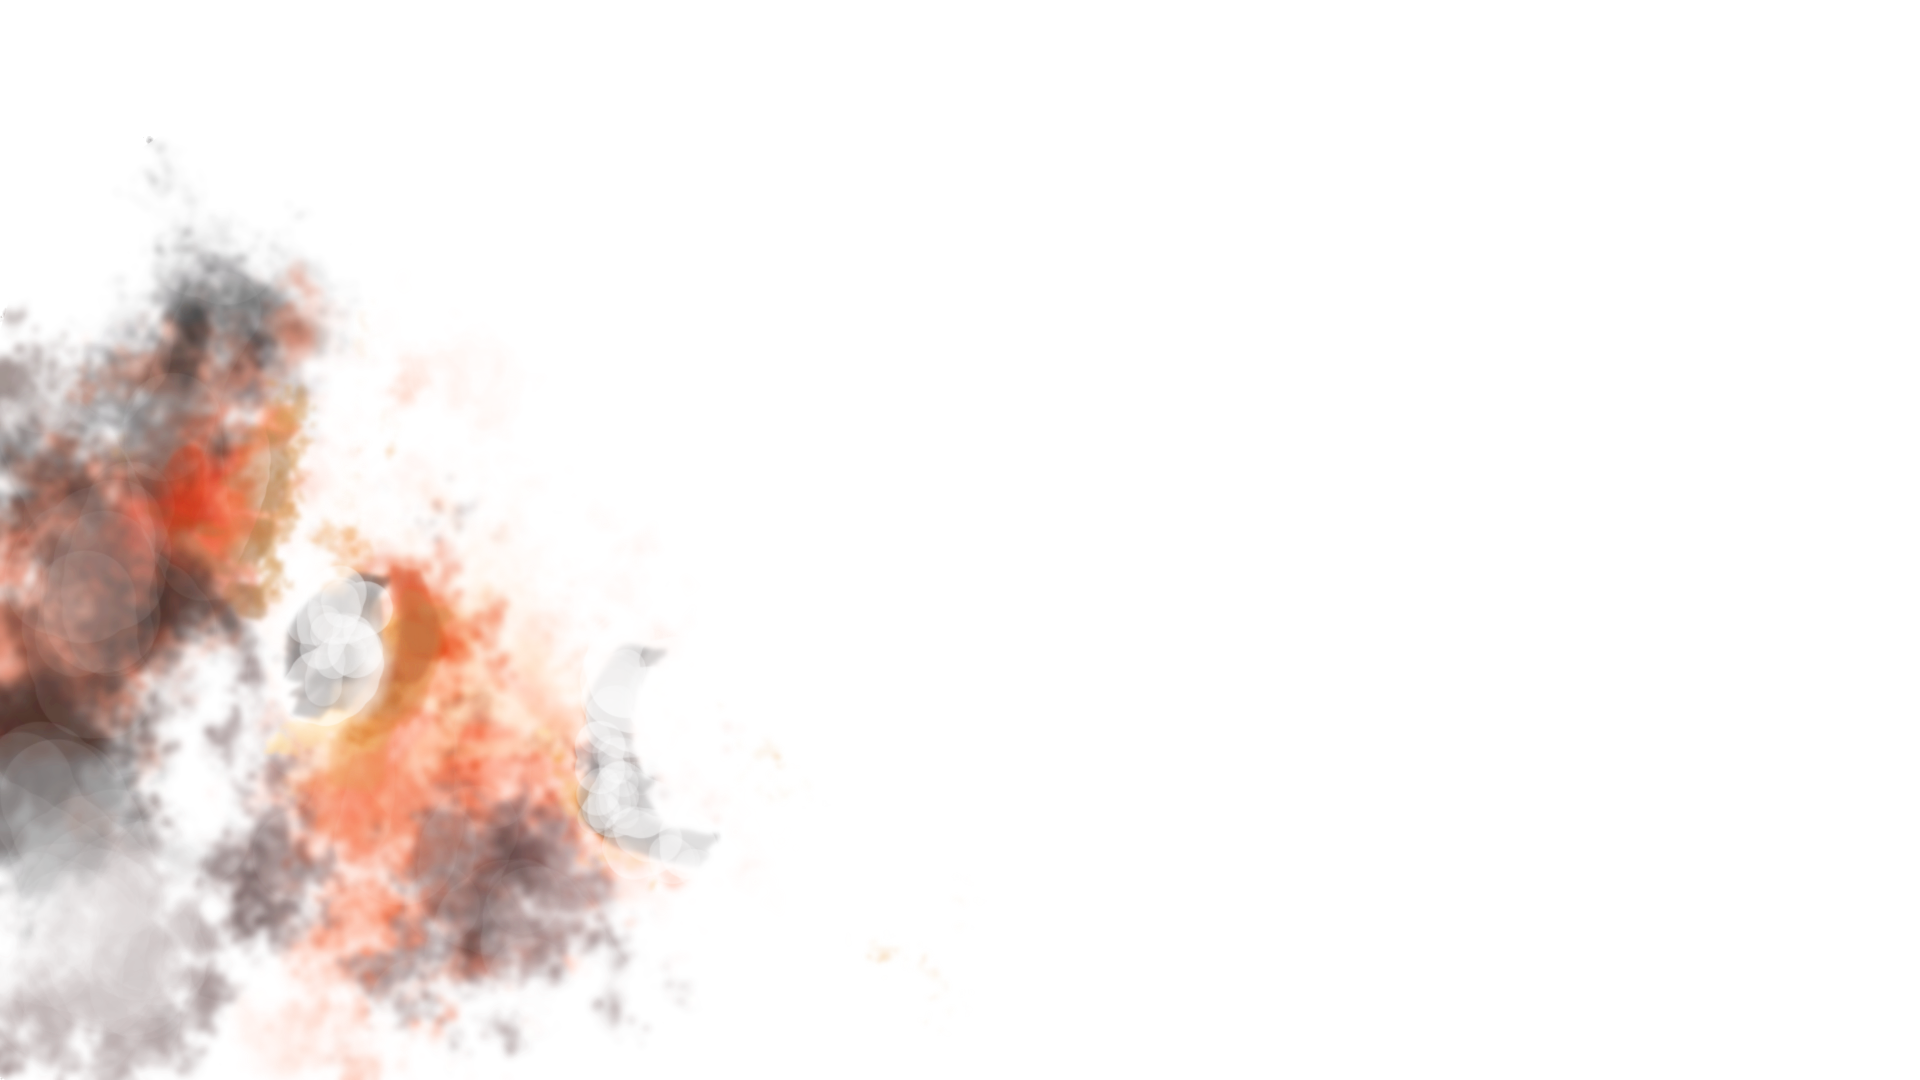
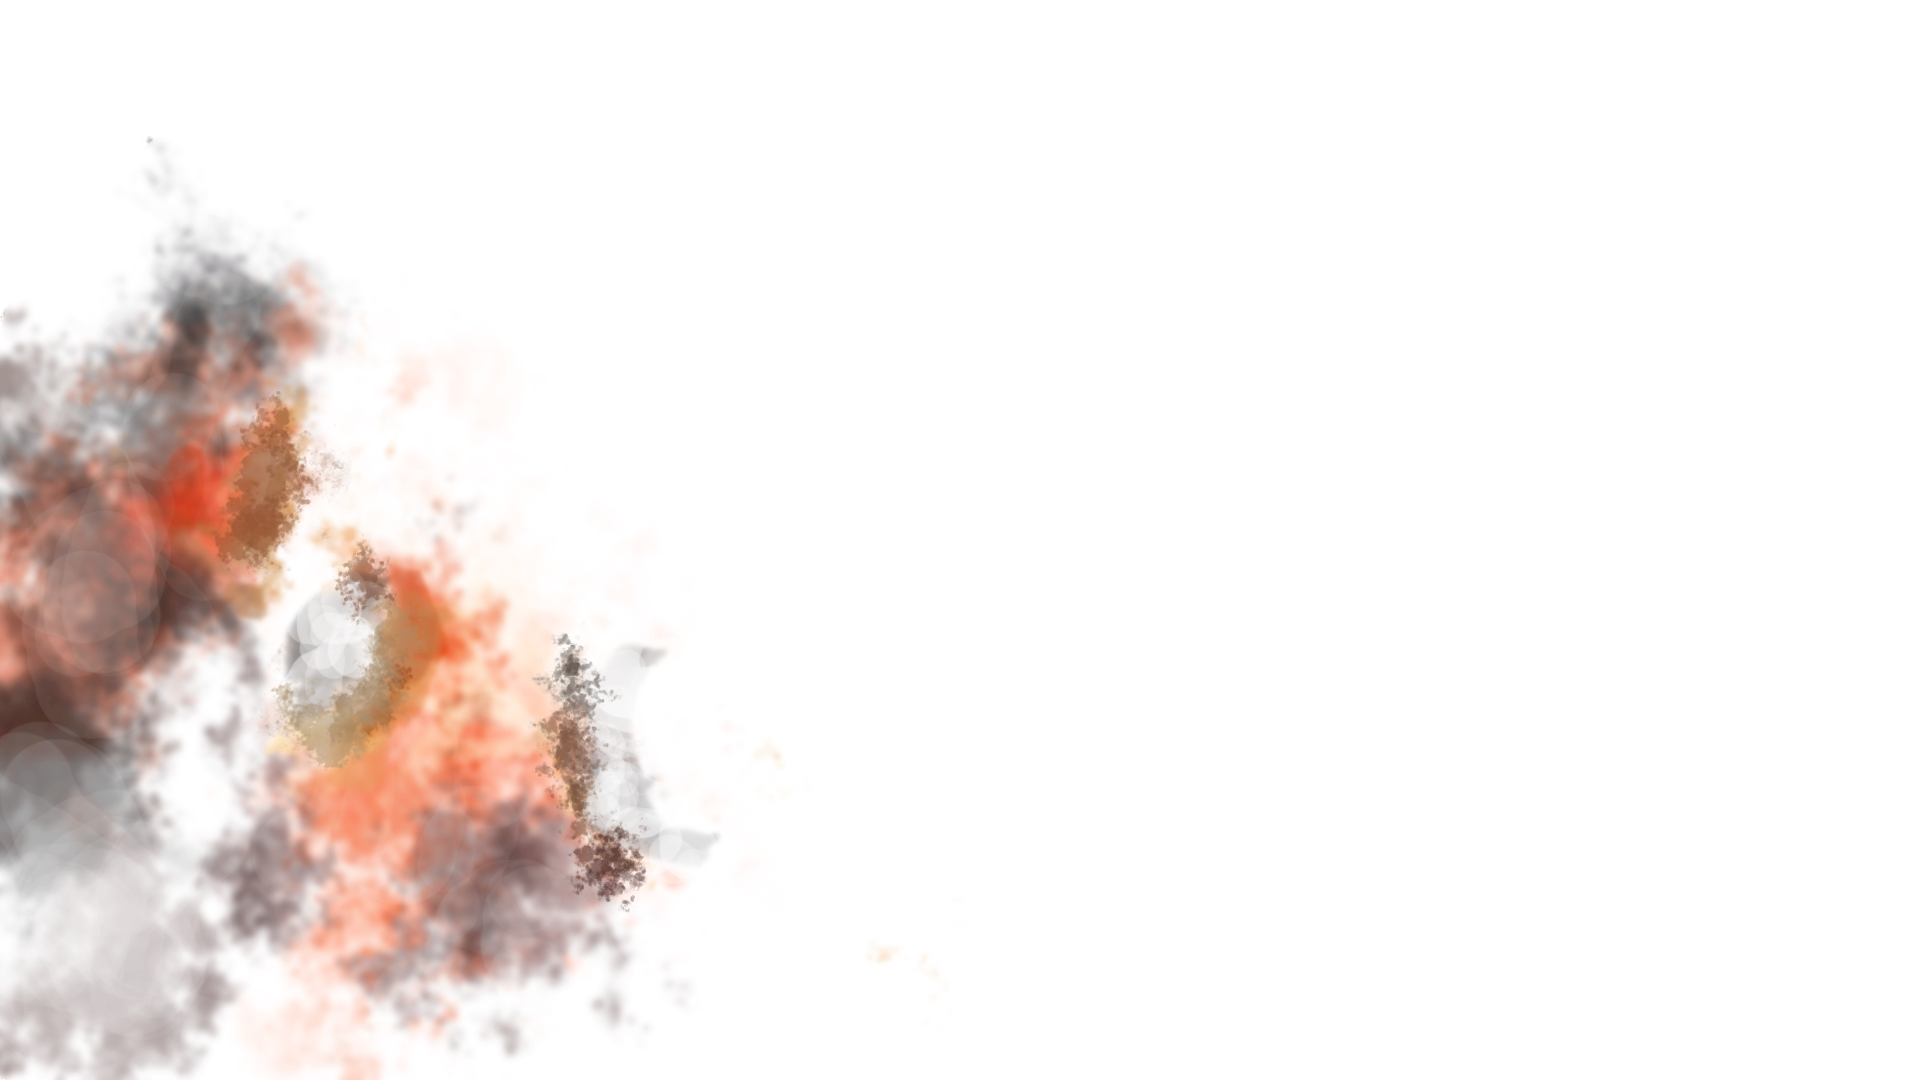
Fix parallax add all layers

Changed region(s): [[0.2812, 0.5806, 0.3438, 0.8556], [0.125, 0.5194, 0.2188, 0.7028], [0.0938, 0.3667, 0.1875, 0.5194]]

diff --git a/src/main.css b/src/main.css
@@ -6,6 +6,15 @@ body * {
     position: absolute;
 }
 
+@keyframes twinkle {
+    from {
+        opacity: 0.5;
+    }
+    to {
+        opacity: 1;
+    }
+}
+
 .viewport {
     overflow: hidden;
     height: 648px;
@@ -24,6 +33,8 @@ body * {
     background-image: url("../assets/images/0_background.png");
     width: 1600px;
     height: 900px;
+    top: calc((-1 / 2) * (900px - 648px));
+    left: calc((-1 / 2) * (1600px - 1152px));
 }
 
 .base div {
@@ -52,9 +63,27 @@ body * {
     background-image: url("../assets/images/3_star base.png");
 }
 
+.layer3b {
+    transform: translateZ(-100px);
+    background-image: url("../assets/images/3_star sparkles.png");
+    animation-name: twinkle;
+    animation-direction: alternate;
+    animation-timing-function: ease-in-out;
+    animation-iteration-count: infinite;
+}
+
 .layer4 {
     /* transform: translateZ(100px); */
     background-image: url("../assets/images/4_star base.png");
+}
+
+.layer4b {
+    /* transform: translateZ(-100px); */
+    background-image: url("../assets/images/4_star sparkles.png");
+    animation-name: twinkle;
+    animation-direction: alternate;
+    animation-timing-function: ease-in-out;
+    animation-iteration-count: infinite;
 }
 
 .layer5 {

diff --git a/index.html b/index.html
@@ -10,7 +10,9 @@
             <div class="layer1">
                 <div class="layer2"></div>
                 <div class="layer3"></div>
+                <div class="layer3b"></div>
                 <div class="layer4"></div>
+                <div class="layer4b"></div>
                 <div class="layer5"></div>
                 <div class="layer6"></div>
             </div>
